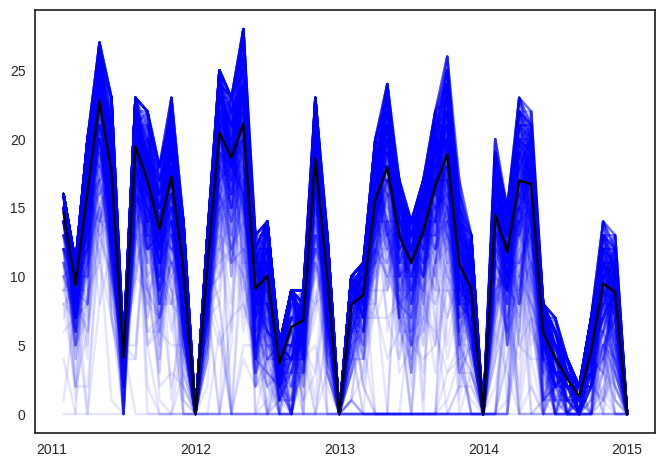
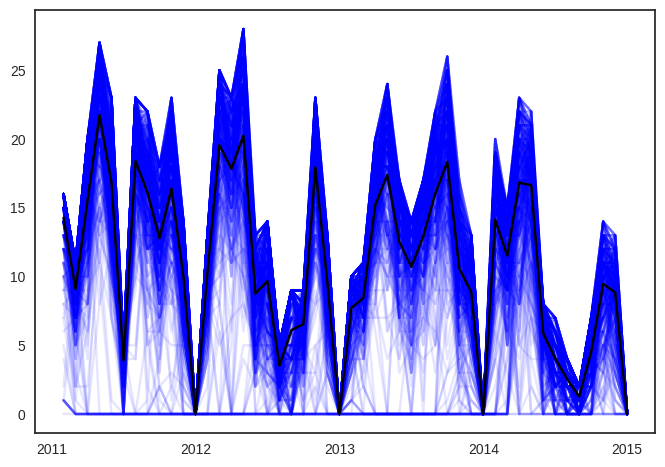
Explorative analysis ovver the cluster members.

diff --git a/src/mstknn_analysis.py b/src/mstknn_analysis.py
@@ -123,6 +123,7 @@ def get_sections(legislature, series, split=None):
       return [(chunk[0], chunk[-1]) for chunk in chunks(idxs, 12)]
 
 def main(legislatures, k, func, method='JS', series_type='default', split=None, presences=False, evaluate_clusters=False, save=False):
+
   if series_type == 'default':
     subquota_description = None
   elif series_type == 'flight':
@@ -135,7 +136,7 @@ def main(legislatures, k, func, method='JS', series_type='default', split=None, 
   profiler = Profiler(light=True)
   for legislature in legislatures:
     series = profiler.read_congressman_json(legislature, subquota_description=subquota_description, presences=presences)
-    clusters = merge_min_clusters(read_mstknn_dump(legislature, series_type, k, method), 3, legislature)
+    clusters = merge_min_clusters(read_mstknn_dump(legislature, 'default', k, method), 3, legislature)
     cluster_idx = 0
 
     # =========================================================================
@@ -178,6 +179,11 @@ def main(legislatures, k, func, method='JS', series_type='default', split=None, 
           # ===================================================================
           for congressman_id in cluster:
             if congressman_id in series.keys():
+              # if len([c for c in series.get(congressman_id)[4][section[0]:section[1]] if c > 200000]):
+              #   print("======================================================")
+              #   print("[DEBUG] Congressman={}".format(series.get(congressman_id)[0]))
+              #   print([x if x > 200000 else "N/A" for x in series.get(congressman_id)[4]])
+              #   print("======================================================")
               dfs = pd.DataFrame(series.get(congressman_id)[4][section[0]:section[1]], index=get_date_range(legislature, section))
               dfs.plot(ax=ax, legend=False, color="blue", alpha=0.1)
           # ===================================================================
@@ -250,4 +256,4 @@ if __name__ == '__main__':
     for itr_k in ks:
       for itr_func in funcs:
         print('[DEBUG] Running analysis for k={}, method={} and func={}'.format(itr_k, itr_method, itr_func))
-        main([54], itr_k, itr_func, itr_method, split=options.split, presences=options.presences, evaluate_clusters=options.evaluate_clusters, save=options.save)
+        main([54], itr_k, itr_func, itr_method, series_type=series_type, split=options.split, presences=options.presences, evaluate_clusters=options.evaluate_clusters, save=options.save)
